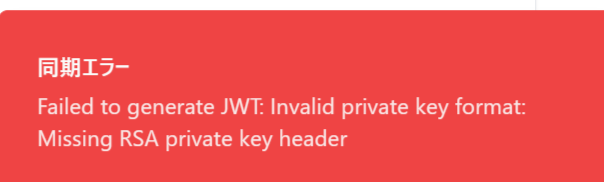
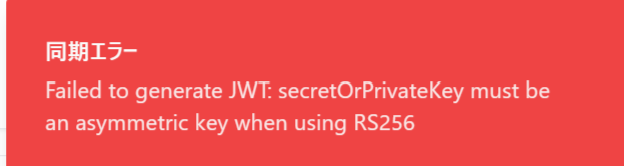
Agent query: GitHubとの同期機能は正常に動作していますでしょうか？
Improve private key handling and add debug logging for JWT generation.

Screenshot: https://storage.googleapis.com/screenshot-production-us-central1/c61d3528-edd6-4051-ba35-615d420eb148/8b01b5d6-4aec-437f-b974-3f26b786c887.jpg

Changed region(s): [[0.0596, 0.4819, 0.894, 0.8434], [0.0, 0.0, 1.0, 1.0], [0.0596, 0.241, 0.2384, 0.4217]]

diff --git a/server/routes.ts b/server/routes.ts
@@ -32,7 +32,11 @@ class GitHubFileUpdater {
 
   constructor(appId: string, privateKey: string, owner: string, repo: string) {
     this.appId = appId;
-    this.privateKey = privateKey.replace(/\\n/g, '\n');
+    // 改行文字の正規化
+    this.privateKey = privateKey
+      .replace(/\\n/g, '\n')
+      .replace(/["']/g, '')
+      .trim();
     this.owner = owner;
     this.repo = repo;
 
@@ -55,7 +59,9 @@ class GitHubFileUpdater {
         hasHeader,
         hasFooter,
         hasContent,
-        keyLength: key.length
+        keyLength: key.length,
+        keyStart: key.substring(0, 50),
+        keyEnd: key.substring(key.length - 50)
       });
       return false;
     }
@@ -77,6 +83,14 @@ class GitHubFileUpdater {
       if (!this.validatePrivateKey(this.privateKey)) {
         throw new Error('Invalid private key format: The key must be a valid RSA private key');
       }
+
+      // JWTの生成時にキーのデバッグ情報を出力
+      console.log('Private key format check:', {
+        hasHeader: this.privateKey.includes('-----BEGIN RSA PRIVATE KEY-----'),
+        hasFooter: this.privateKey.includes('-----END RSA PRIVATE KEY-----'),
+        length: this.privateKey.length,
+        sample: `${this.privateKey.substring(0, 50)}...${this.privateKey.substring(this.privateKey.length - 50)}`
+      });
 
       const token = jwt.sign(payload, this.privateKey, { algorithm: 'RS256' });
       console.log('JWT generated successfully');
@@ -257,7 +271,6 @@ function generateMarkdown(allEvents: Event[]): string {
   let markdown = `# イベント一覧\n\n`;
   markdown += `最終更新: ${today.toLocaleDateString('ja-JP')}\n\n`;
 
-  // イベントを日付でソート
   const sortedEvents = [...allEvents].sort((a, b) =>
     new Date(b.date).getTime() - new Date(a.date).getTime()
   );
@@ -273,7 +286,6 @@ function generateMarkdown(allEvents: Event[]): string {
       markdown += '\n---\n\n';
     } catch (error) {
       console.error(`Error processing event ${event.id}:`, error);
-      // Skip this event but continue with others
     }
   });
 
